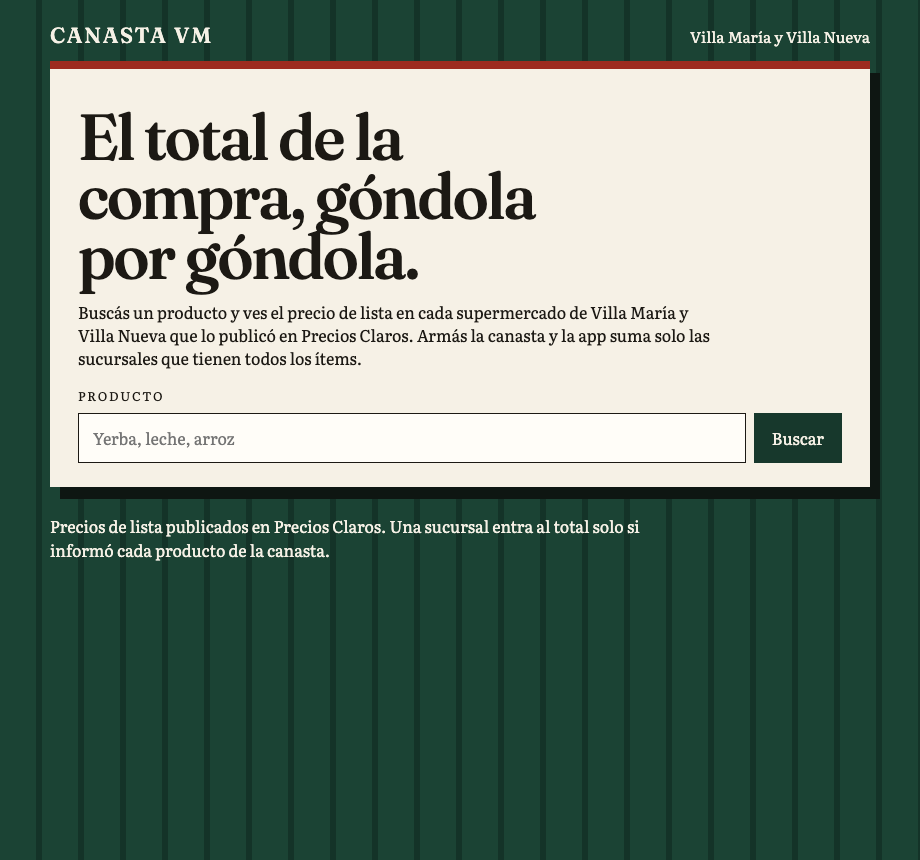
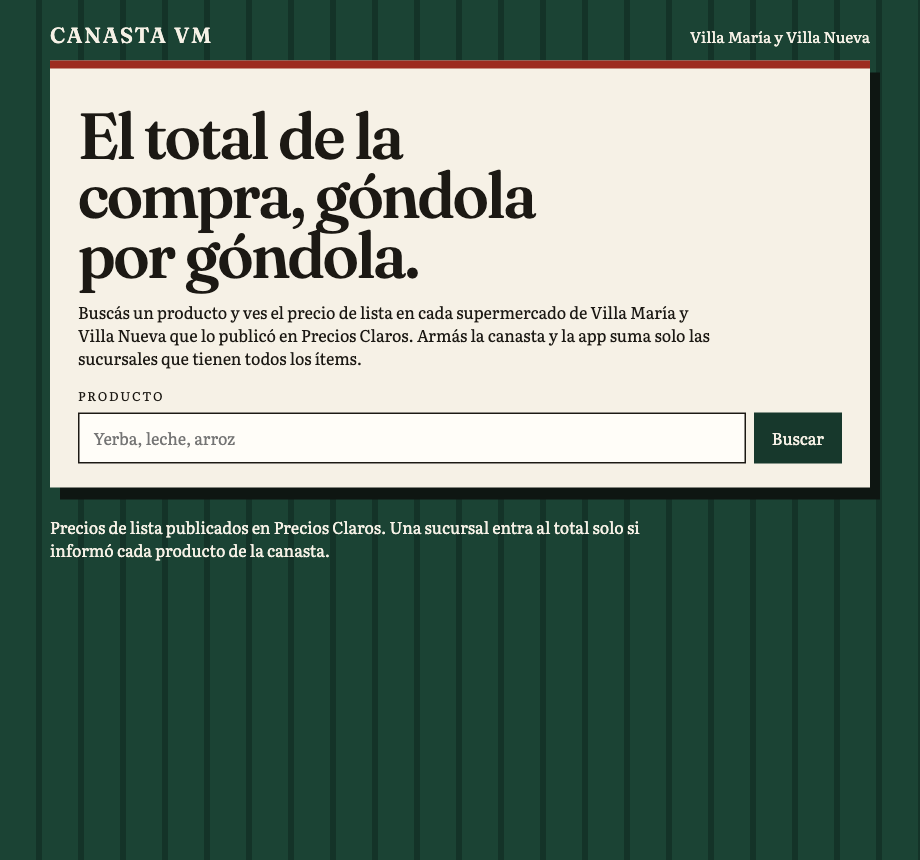
fix: show loading, errors and basket state while summing stores

diff --git a/web/app.js b/web/app.js
@@ -13,6 +13,8 @@ const totalsNode = document.querySelector("#totals");
 
 const basket = new Map();
 const storeCache = new Map();
+const addButtons = new Map();
+let totalsRun = 0;
 
 function localStore(store) {
   const city = (store.localidad || "")
@@ -61,15 +63,38 @@ function renderBasket() {
     row.append(remove);
     basketItems.append(row);
   }
+  for (const [id, button] of addButtons) {
+    const inBasket = basket.has(id);
+    button.disabled = inBasket;
+    button.textContent = inBasket ? "En la canasta" : "Sumar a la canasta";
+  }
   renderTotals();
 }
 
+function totalsMessage(text) {
+  const row = document.createElement("li");
+  row.className = "meta";
+  row.textContent = text;
+  totalsNode.replaceChildren(row);
+}
+
 async function renderTotals() {
-  totalsNode.replaceChildren();
-  if (basket.size === 0) return;
+  const run = ++totalsRun;
+  if (basket.size === 0) {
+    totalsNode.replaceChildren();
+    return;
+  }
+  totalsMessage("Sumando sucursales…");
   const byStore = new Map();
   for (const item of basket.values()) {
-    const stores = await storesFor(item.id);
+    let stores;
+    try {
+      stores = await storesFor(item.id);
+    } catch (error) {
+      if (run === totalsRun) totalsMessage(`${error.message} Probá de nuevo en un rato.`);
+      return;
+    }
+    if (run !== totalsRun) return;
     for (const store of stores) {
       const current = byStore.get(store.id) || {
         name: `${store.banderaDescripcion} · ${store.sucursalNombre}`,
@@ -88,10 +113,9 @@ async function renderTotals() {
     }))
     .sort((a, b) => a.total - b.total);
 
+  totalsNode.replaceChildren();
   if (complete.length === 0) {
-    const empty = document.createElement("li");
-    empty.textContent = "Ninguna sucursal de la ciudad publicó precio para todos los productos de la canasta.";
-    totalsNode.append(empty);
+    totalsMessage("Ninguna sucursal de la ciudad publicó precio para todos los productos de la canasta.");
     return;
   }
   complete.forEach((store, index) => {
@@ -114,7 +138,13 @@ async function renderTotals() {
 
 async function showStores(product) {
   statusNode.textContent = "Buscando sucursales…";
-  const stores = await storesFor(product.id);
+  let stores;
+  try {
+    stores = await storesFor(product.id);
+  } catch (error) {
+    statusNode.textContent = `${error.message} Probá de nuevo en un rato.`;
+    return;
+  }
   storesTitle.textContent = product.nombre;
   storeList.replaceChildren();
   storesNode.hidden = false;
@@ -154,6 +184,7 @@ document.querySelector("#search").addEventListener("submit", async (event) => {
   const query = new FormData(event.currentTarget).get("q").toString().trim();
   statusNode.textContent = "Buscando…";
   resultsNode.replaceChildren();
+  addButtons.clear();
   storesNode.hidden = true;
   try {
     const products = await searchProducts(query);
@@ -166,7 +197,10 @@ document.querySelector("#search").addEventListener("submit", async (event) => {
       title.textContent = product.nombre;
       const detail = document.createElement("span");
       detail.className = "meta";
-      detail.textContent = `${product.marca} · ${product.presentacion}`;
+      detail.textContent = [product.marca, product.presentacion]
+        .filter((part) => part && !/none/i.test(part))
+        .map((part) => part.replace(/(\d)\.0\b/, "$1"))
+        .join(" · ");
       copy.append(title, document.createElement("br"), detail);
       const actions = document.createElement("div");
       actions.className = "tag";
@@ -175,11 +209,13 @@ document.querySelector("#search").addEventListener("submit", async (event) => {
       range.textContent = `${money.format(product.precioMin)} – ${money.format(product.precioMax)}`;
       const add = document.createElement("button");
       add.type = "button";
-      add.textContent = "Sumar a la canasta";
+      add.textContent = basket.has(product.id) ? "En la canasta" : "Sumar a la canasta";
+      add.disabled = basket.has(product.id);
+      addButtons.set(product.id, add);
       add.addEventListener("click", async () => {
         basket.set(product.id, product);
-        await showStores(product);
         renderBasket();
+        await showStores(product);
       });
       actions.append(range, add);
       row.append(copy, actions);

diff --git a/web/styles.css b/web/styles.css
@@ -107,6 +107,14 @@ button:hover { background: #0f281f; }
 
 button:active { transform: translateY(1px); }
 
+button:disabled {
+  cursor: default;
+  background: transparent;
+  color: var(--green);
+  box-shadow: inset 0 0 0 1.5px var(--green);
+  transform: none;
+}
+
 button.ghost {
   background: transparent;
   color: var(--green);

diff --git a/web/index.html b/web/index.html
@@ -46,7 +46,7 @@
         <h2>Canasta</h2>
         <ul id="basket-items"></ul>
         <h3>Total por sucursal</h3>
-        <ol id="totals"></ol>
+        <ol id="totals" aria-live="polite"></ol>
       </section>
     </main>
 
